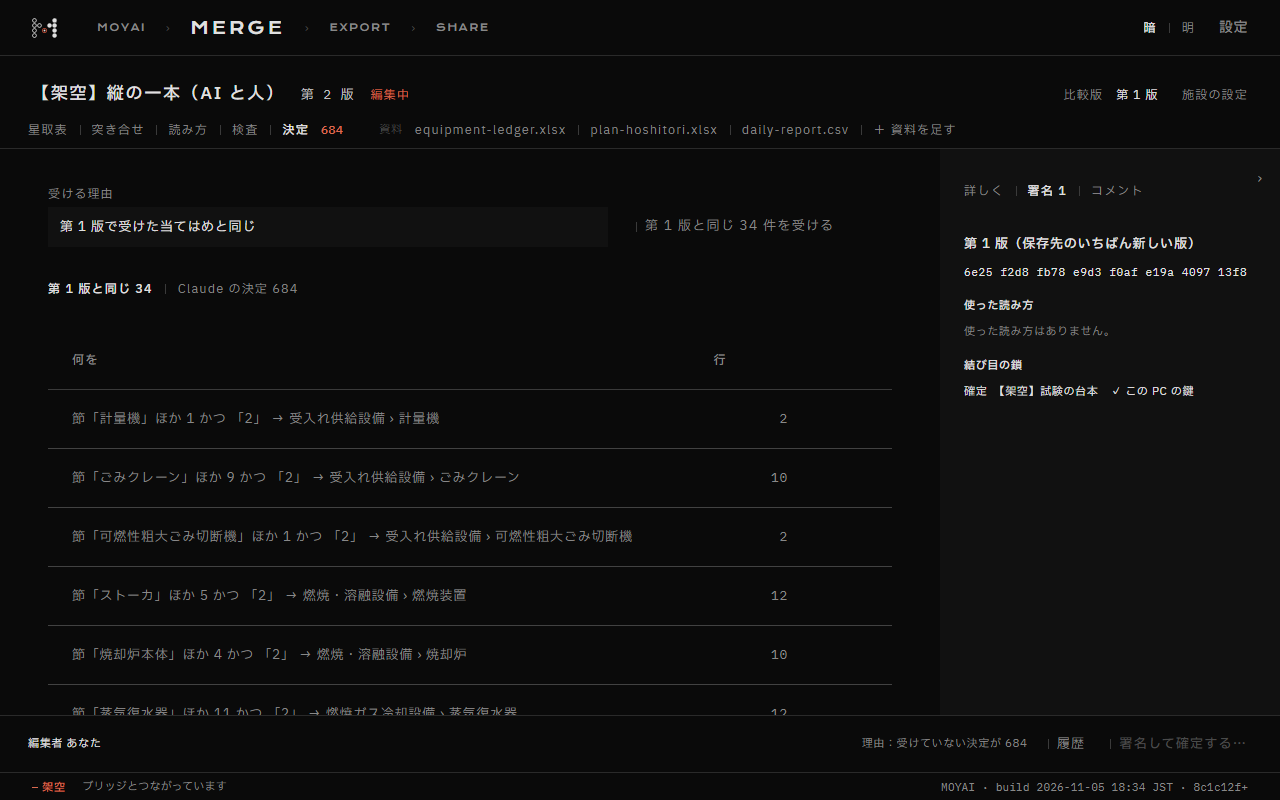
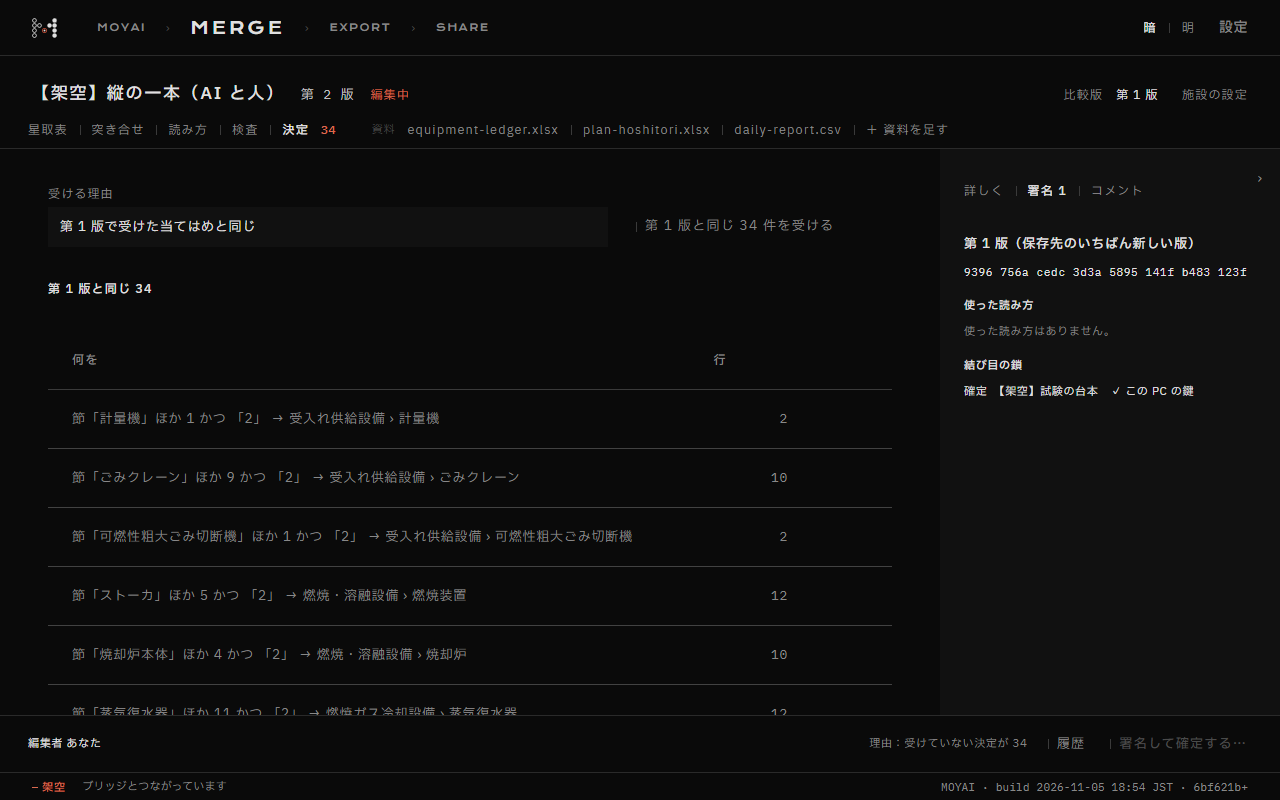
新-4：案のままの当てはめの規則が当てている行を、決定の 1 行ずつに二重に出さない

diff --git a/src/app/components/DecisionsSheet.tsx b/src/app/components/DecisionsSheet.tsx
@@ -27,13 +27,25 @@ const T = HUMAN_TEXT.decisions;
 const KINDS = ["same", "crosswalk", "ledger", "relayed", "ai"] as const;
 type Kind = (typeof KINDS)[number];
 const W = TEXT.crosswalk;
+const NO_PROPOSALS: readonly CrosswalkProposal[] = [];
 
-/** 受けていない決定（版の履歴で受けたものを除く）。署名のダイアログと下の帯も同じ数を使う */
-export function usePending(client: BridgeClient, plan: Plan | null): { pending: Decision[]; ready: boolean } {
+/**
+ * 受けていない決定（版の履歴で受けたものを除く）。署名のダイアログと下の帯も同じ数を使う。
+ * 案のままの当てはめの規則が当てている行は、決定の 1 行ずつには出さない（規則の行で受ける。二重に出さない。台帳の新-4）。
+ * openRules は案のままの規則の数（下の帯の数に足す）
+ */
+export function usePending(client: BridgeClient, plan: Plan | null): { pending: Decision[]; openRules: number; ready: boolean } {
   const [load] = usePlanStatus(client, plan?.planId ?? "", !!plan);
   const status = load.kind === "ready" ? load.status : null;
-  const pending = useMemo(() => (plan && status ? pendingDecisions(plan, status.accepted ?? []) : []), [plan, status]);
-  return { pending, ready: !!status };
+  const working = useWorkingPlan();
+  const proposals = working?.proposals ?? NO_PROPOSALS;
+  const pending = useMemo(() => {
+    if (!plan || !status) return [];
+    const held = new Set<string>();
+    for (const p of proposals) if (p.state === "proposed") for (const ref of heldRows(plan, p)) held.add(ref.startsWith("n:") ? `item:${ref.slice(2)}` : `attr:${ref.slice(2)}`);
+    return pendingDecisions(plan, status.accepted ?? []).filter((d) => !held.has(d.id));
+  }, [plan, status, proposals]);
+  return { pending, openRules: proposals.filter((p) => p.state === "proposed").length, ready: !!status };
 }
 
 /** 規則の条件の値を人の言葉で（節や作業の鍵の条件は、その名前に読み替える） */

diff --git a/src/app/pages/Merge.tsx b/src/app/pages/Merge.tsx
@@ -65,7 +65,7 @@ export function Merge({ ws, client, sheet }: { ws: IntakeWorkspace; client: Brid
   const plan = working?.plan ?? null;
   const { state: conn } = useConnection();
   const accepted = useAccepted();
-  const { pending } = usePending(client, plan);
+  const { pending, openRules } = usePending(client, plan);
   const [confirmOpen, setConfirmOpen] = useState(false);
   const [historyOpen, setHistoryOpen] = useState(false);
   const [over, setOver] = useState(false);
@@ -267,7 +267,8 @@ export function Merge({ ws, client, sheet }: { ws: IntakeWorkspace; client: Brid
   const nextVersion = viewingOld ?? ((awaitingMe || askedApprove) && latestNo !== null ? latestNo : (base ?? latestNo ?? plan?.version ?? 0) + 1);
   const an = ws.fileCount ? ws.analysis() : null;
   const openQuestions = an ? an.open.length : 0;
-  const leftDecisions = pending.filter((d) => !accepted.has(`${d.id}\u0000${d.hash}`)).length;
+  // 受けていない決定と、案のままの当てはめの規則（規則が当てている行は決定に二重に数えない。台帳の新-4）
+  const leftDecisions = pending.filter((d) => !accepted.has(`${d.id}\u0000${d.hash}`)).length + openRules;
   // 白紙のあいだに「第 1 版をつくる」を止めている理由（取り込みと同じもの）
   const composeBlocks = !plan ? ws.composeBlockers() : [];
   const blocks = [
